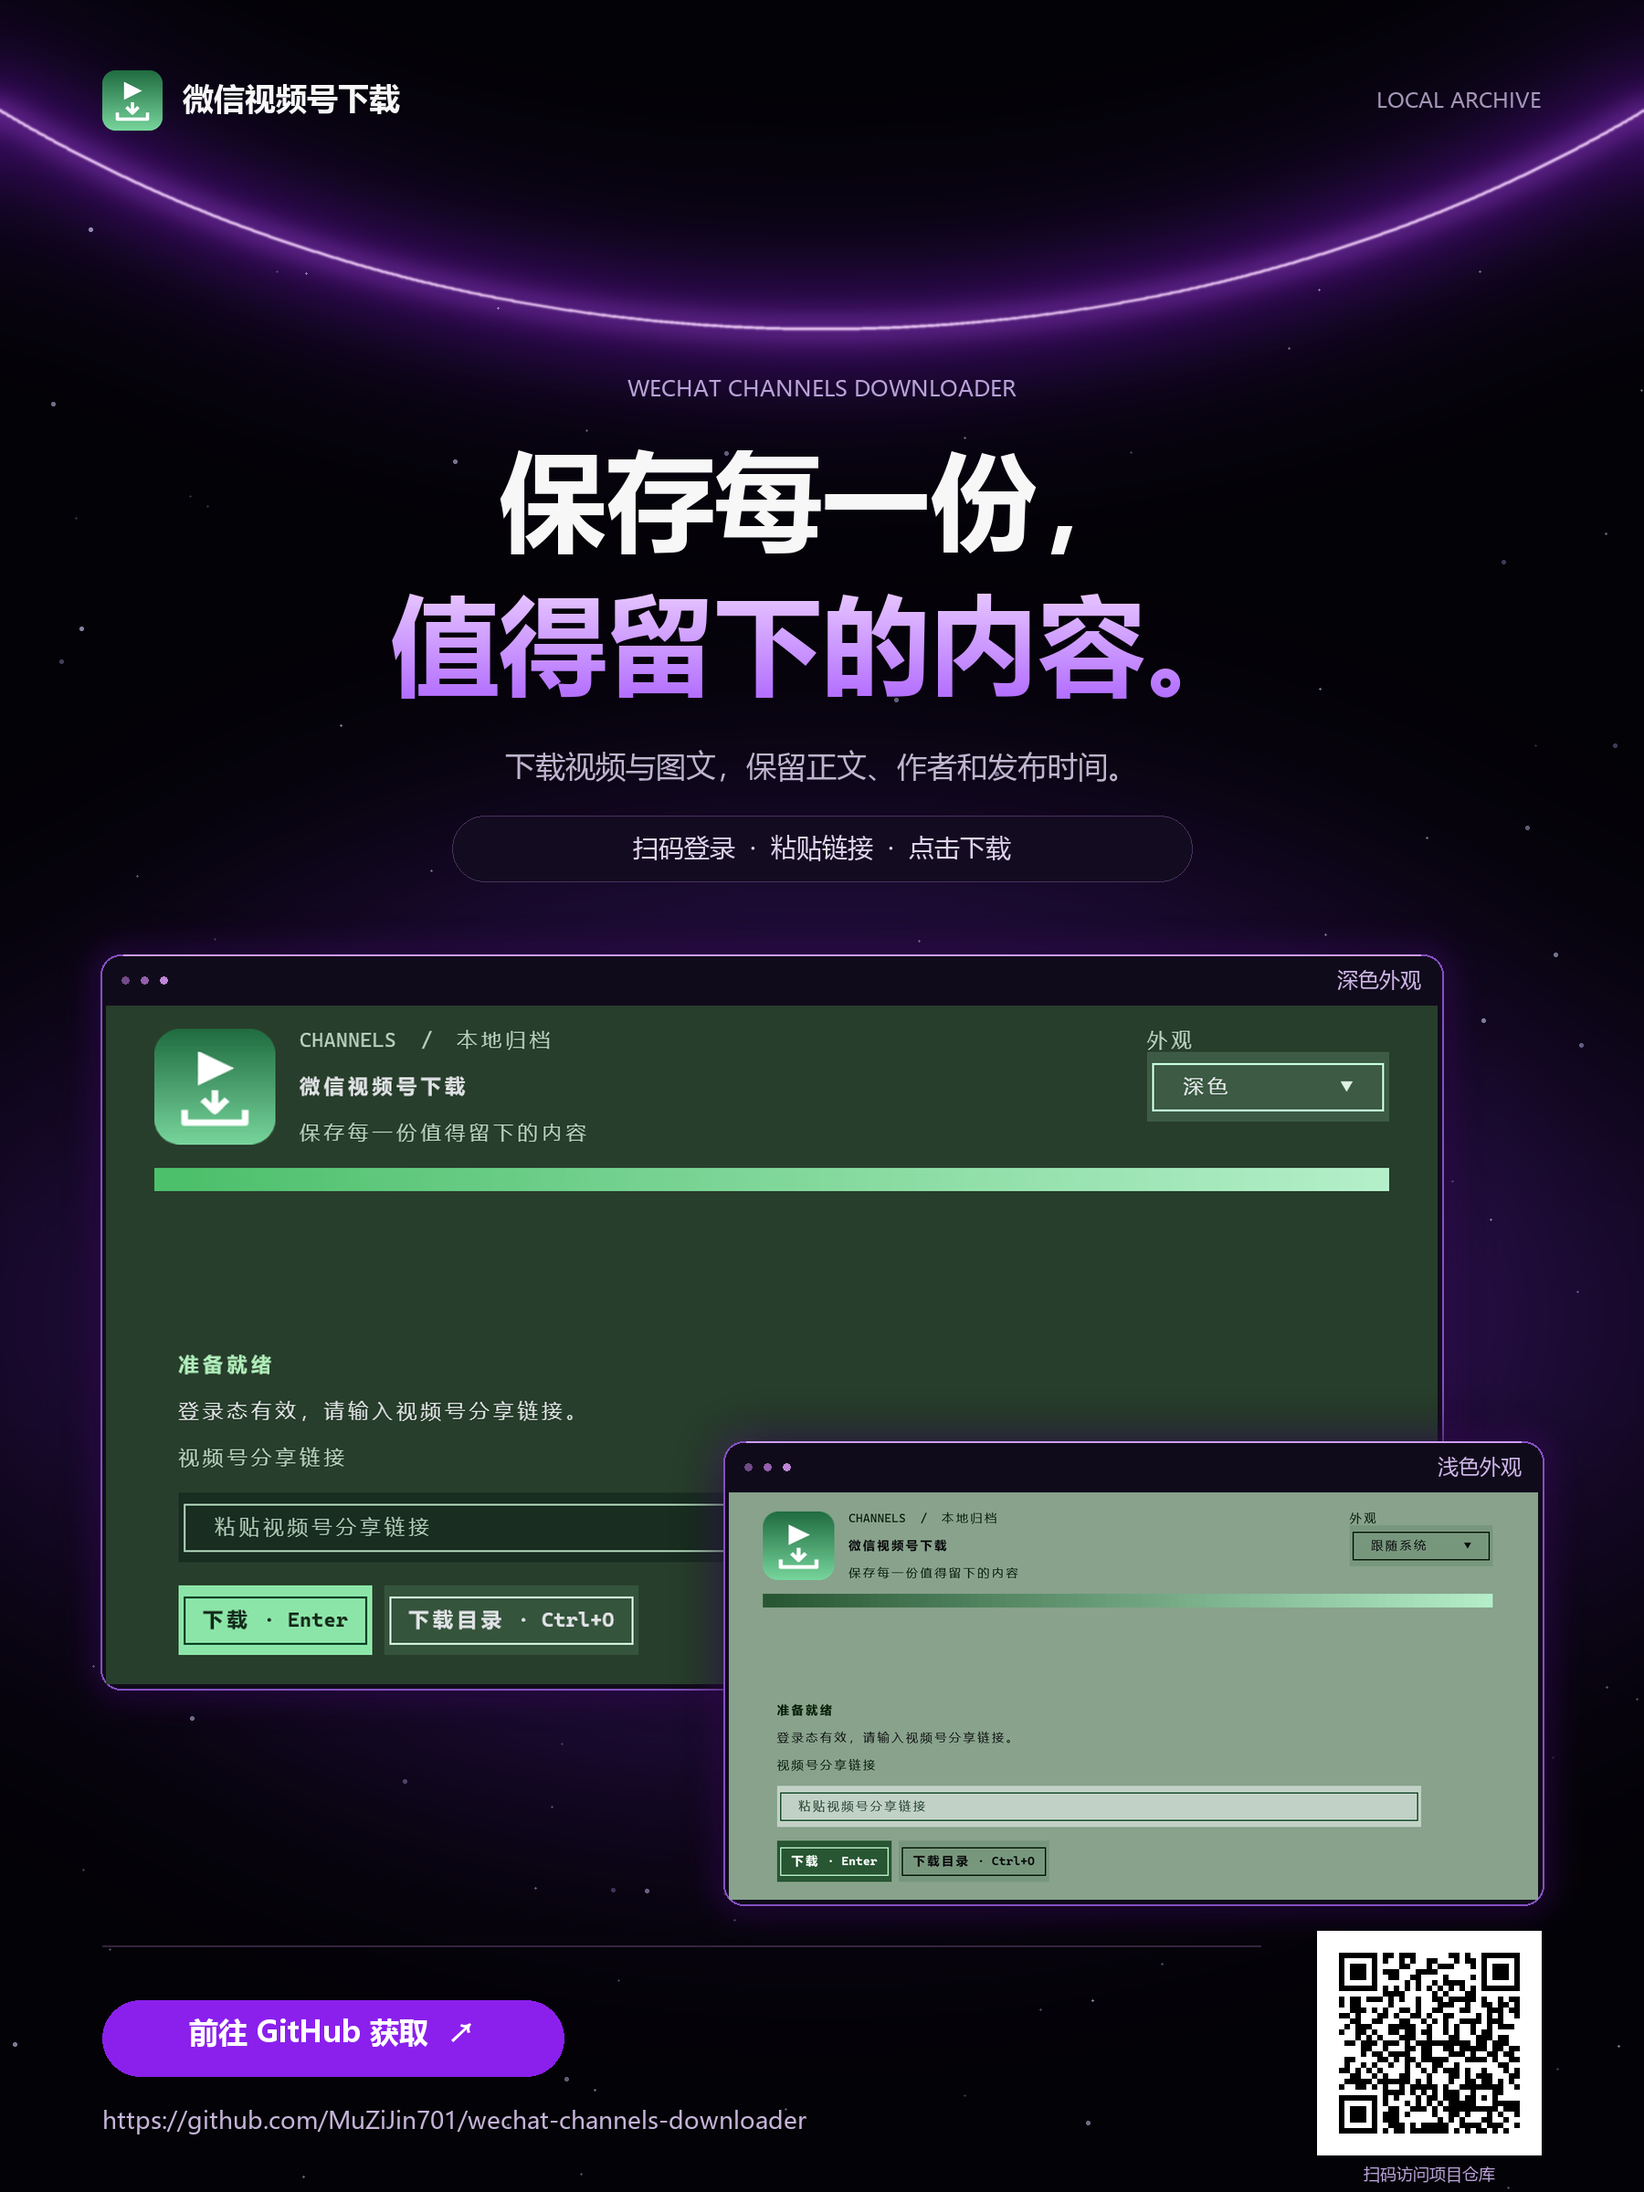
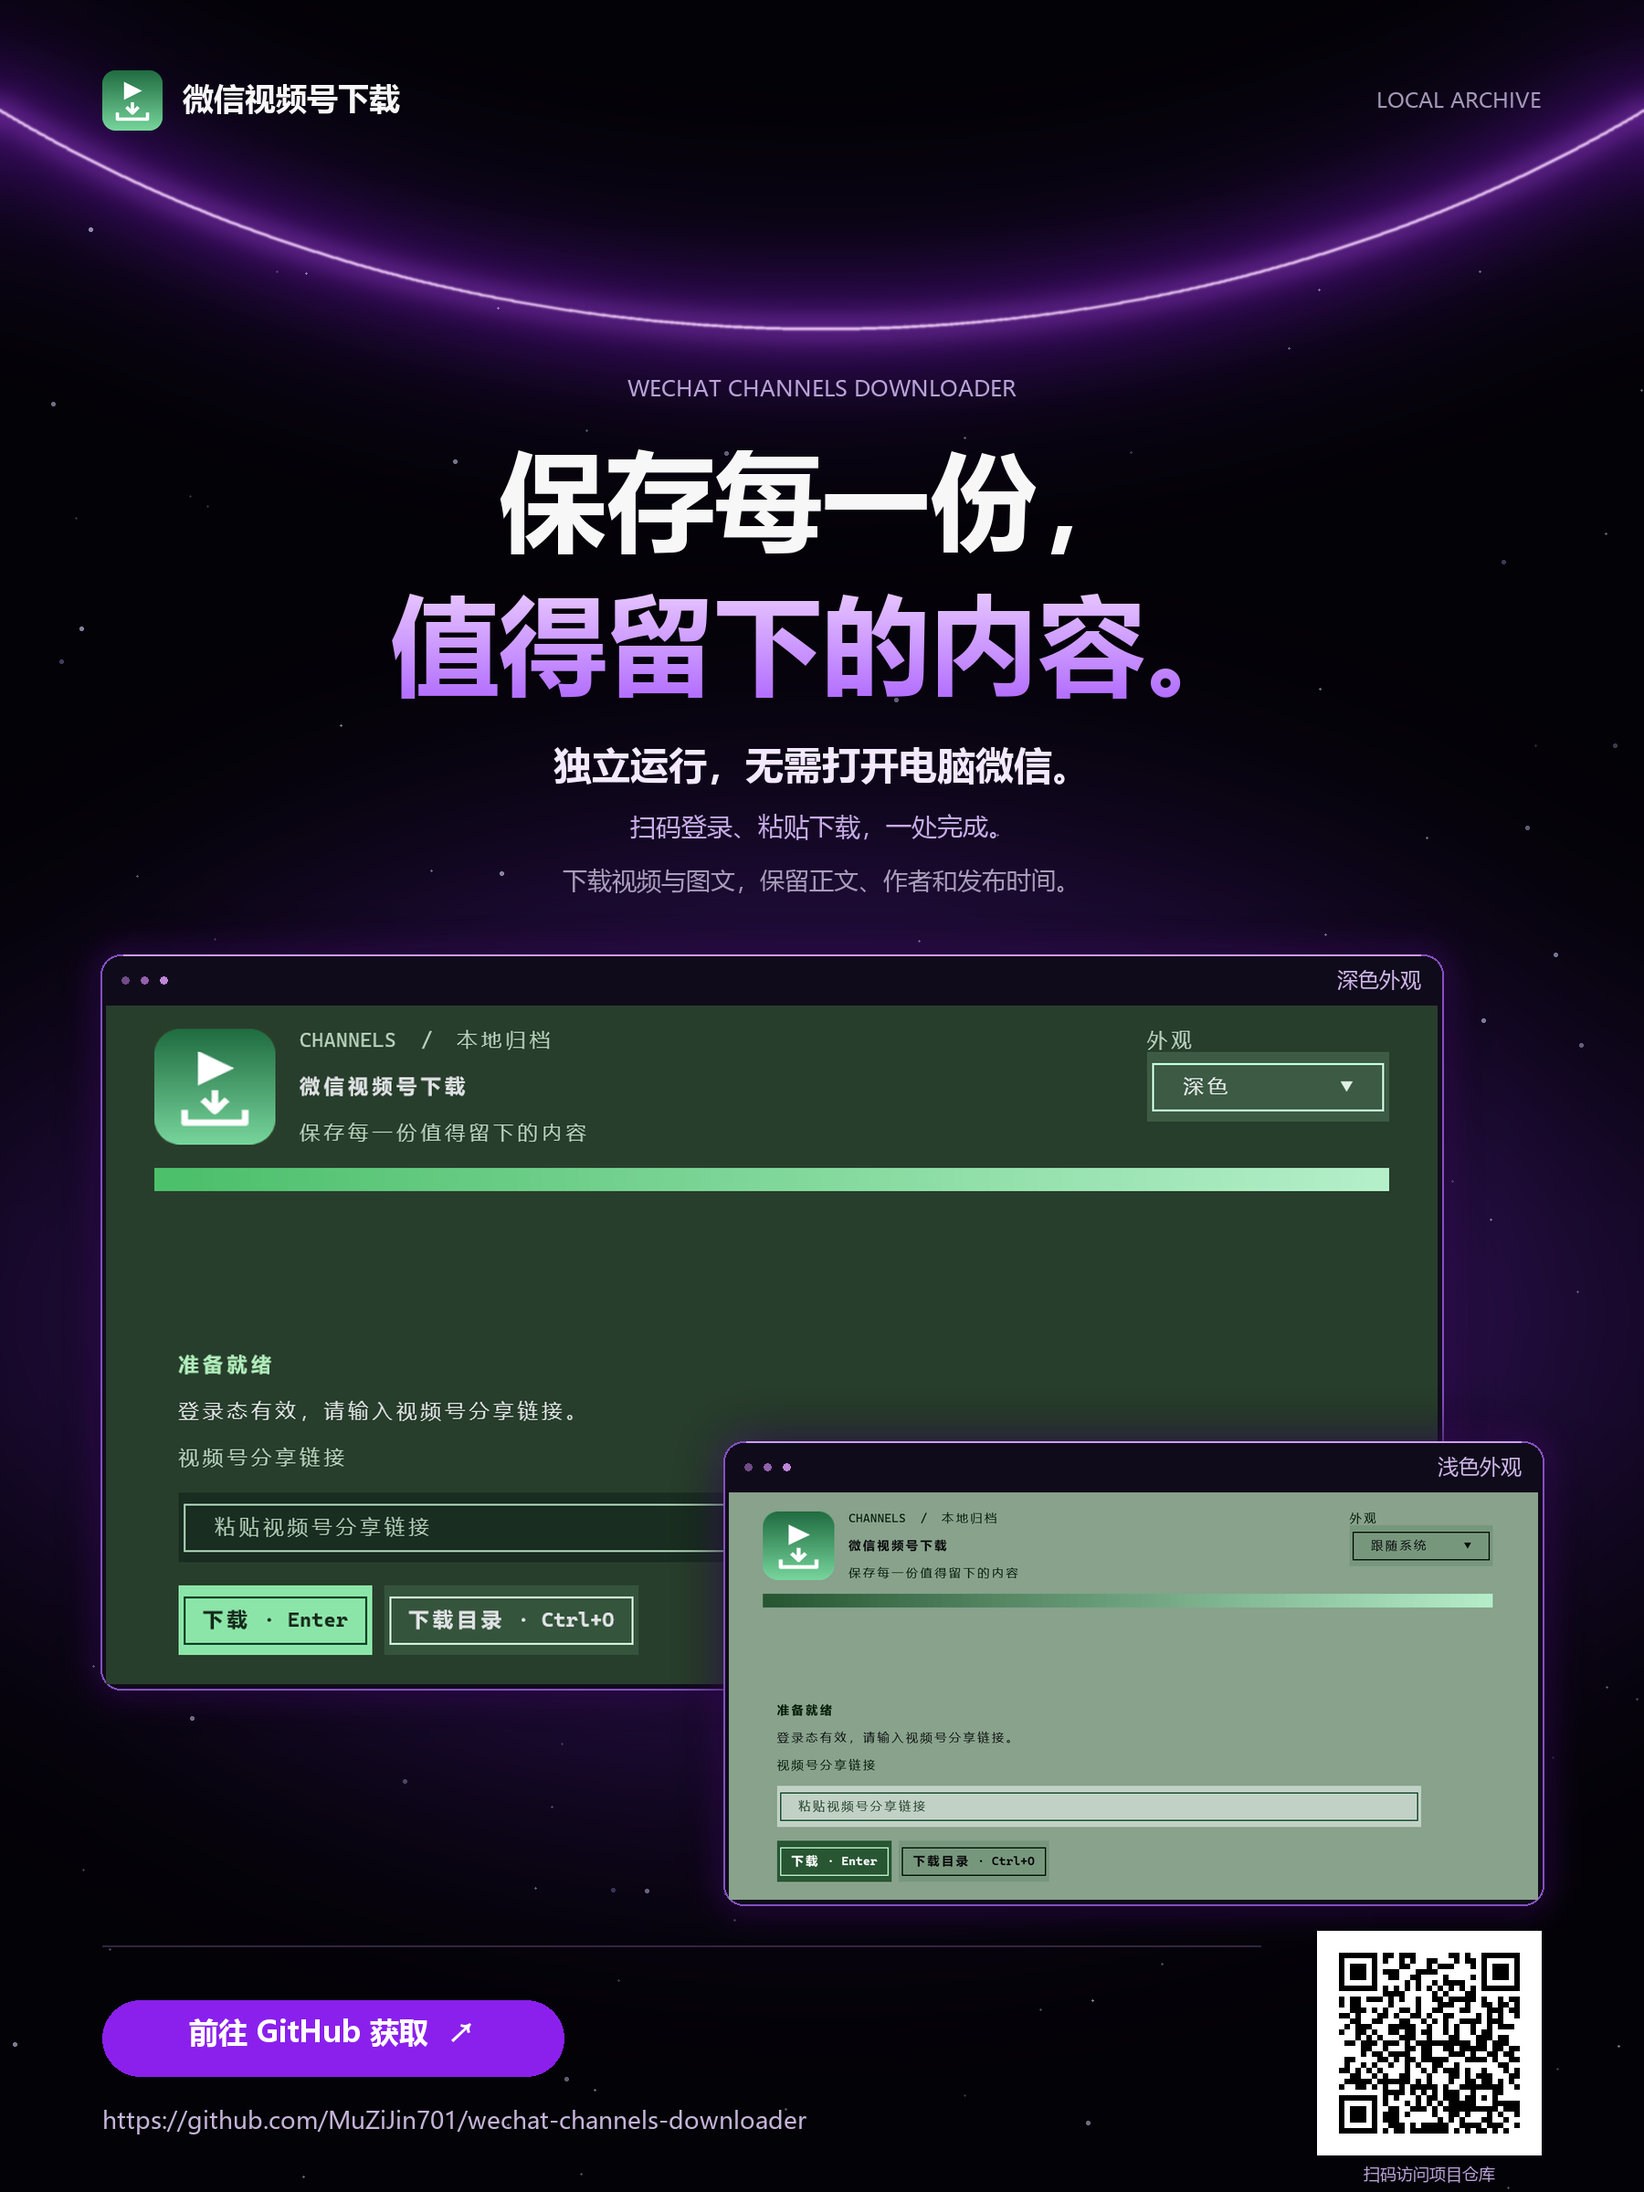
Update poster copy to emphasize independent use

Changed region(s): [[0.3111, 0.3438, 0.6844, 0.4062]]

diff --git a/tools/draw_poster.py b/tools/draw_poster.py
@@ -133,10 +133,9 @@ def main() -> None:
         t = (y - 650) / 150
         ink_draw.line((0, y, SIZE[0], y), fill=(round(229 - 66 * t), round(195 - 112 * t), 255))
     image.paste(ink, (0, 0), mask)
-    centered(821, "下载视频与图文，保留正文、作者和发布时间。", 33, "#bfb5ce")
-
-    draw.rounded_rectangle((495, 893, 1305, 965), radius=36, fill="#130c20", outline="#49315e", width=1)
-    centered(914, "扫码登录  ·  粘贴链接  ·  点击下载", 28, "#e0d4ed")
+    centered(818, "独立运行，无需打开电脑微信。", 42, "#f3e9ff", True)
+    centered(891, "扫码登录、粘贴下载，一处完成。", 28, "#c8ace8")
+    centered(951, "下载视频与图文，保留正文、作者和发布时间。", 27, "#a99dbb")
 
     panel(image, "深色模式使用截图.png", (6, 62, 1326, 735),
           110, 1045, 1470, "深色外观", font(23))

diff --git a/docs/requirements.md b/docs/requirements.md
@@ -456,3 +456,62 @@ PyInstaller 官方明确指出 `hide-console` 仍可能闪窗，在 Windows Term
 ### 整体确认与制作授权
 
 用户明确回复「确认，开始制作」，确认上述整体方案，授权制作海报、Python 绘制脚本和相关文档。二维码指向项目仓库，并标注「扫码访问项目仓库」以区分应用登录二维码；交付和验证结果见[海报验证记录](validation.md#宣传海报2026-10-23仅-windows-本机)。本轮不提交、不推送、不发布到社交平台。
+
+### 低门槛下载卖点强化
+
+用户希望根据「扫码后粘贴链接即可下载」这一体验增加宣传内容，授权调整海报文案。保留既有主标题、皇家紫构图、两张截图与项目入口，将原操作提示提升为醒目的「微信扫码登录，粘贴链接，一键下载。」，补充「无需抓包 · 无需安装证书 · 无需手动提取 Cookie」，原功能说明保留在下方。
+
+上述表述指用户无需自行处理这些技术步骤，不代表免登录、无需联网或粘贴后自动下载；一键下载指就绪状态下点击下载按钮或按 Enter。元宝登录及必要的手机确认仍按程序提示进行。
+
+2026-10-23 检索一手项目说明：[wechat-video-subtitle](https://github.com/jianminggan/wechat-video-subtitle)也支持登录元宝后通过链接下载，定位为需准备运行环境的 Agent Skill；[wx-video-channel-download](https://github.com/oliver-zch/wx-video-channel-download)的说明仍要求用户在开发者工具中手动获取 Cookie。两者说明存在不同操作流程，不能据有限检索推断市场稀有程度；海报采用本项目可核实的步骤优势，不加入「唯一」「非常稀有」等比较性断言。未运行同类项目或核验其实际成功率。
+
+### 与 wx_channels_download 对比后的宣传需求重新澄清（2026-10-23，已确认并授权实现）
+
+用户重新明确调用 `grill-with-docs`，指定对比 [ltaoo/wx_channels_download](https://github.com/ltaoo/wx_channels_download)，希望核实可用于宣传的真实优势，并明确要求海报不出现「手动提取 Cookie」这类技术性问题。此要求取代上一轮采用技术步骤作为海报文案的选择；对比调研用于提炼普通用户能理解的收益，不推断市场稀有程度。
+
+首轮 Q1 已确认：仅展示本项目的用户收益，海报不出现对方项目名称或对比表。具体优势、文案主次与最终共同理解尚待完成；本轮先更新澄清记录，尚未改绘海报。
+
+#### 对比核对与宣传边界
+
+核对对方默认分支版本 [`124f044235bc706fe796c043a14ff442a150ae5d`](https://github.com/ltaoo/wx_channels_download/commit/124f044235bc706fe796c043a14ff442a150ae5d) 的一手文档及源码；本项目核对当前 README、`downloader/service.py` 与 `downloader/archive.py`。本轮未运行对方软件、安装依赖或进行实际下载性能对比。
+
+| 维度 | 核对结果 | 可用于宣传的用户收益 |
+| --- | --- | --- |
+| 常规使用流程 | 对方 [README](https://github.com/ltaoo/wx_channels_download/blob/124f044235bc706fe796c043a14ff442a150ae5d/README.md#L7-L35) 介绍在电脑微信播放后点下载；本项目主流程集中为扫码、粘贴分享链接、点击下载。但对方当前[源码也接受分享链接](https://github.com/ltaoo/wx_channels_download/blob/124f044235bc706fe796c043a14ff442a150ae5d/pkg/scraper/wxchannels/client.go#L75-L121)，不能说它不支持链接下载或所有模式都必须逐条播放。 | 强调本项目集中、直接的使用流程；扫码及链接下载不宣称独有。 |
+| 下载后的独立浏览 | 本项目每条动态建立独立目录，生成使用本地媒体的 `index.html`，一起展示正文、作者和时间。对方当前[下载出口](https://github.com/ltaoo/wx_channels_download/blob/124f044235bc706fe796c043a14ff442a150ae5d/internal/adapter/wxchannels/model.go#L819-L987) 创建媒体资源，内容信息进入内容库并通过[内容 API](https://github.com/ltaoo/wx_channels_download/blob/124f044235bc706fe796c043a14ff442a150ae5d/internal/services/content.go#L266-L285)供内置网页管理；沿该出口与后处理未发现视频号独立汇总浏览页的生成。 | 「下载后自动整理，离线也能翻看」是目前最具体、依据较强的差异；只陈述本项目产物，不绝对宣称对方无法实现。 |
+| 视频、图文与相关信息 | 对方[模型与下载逻辑](https://github.com/ltaoo/wx_channels_download/blob/124f044235bc706fe796c043a14ff442a150ae5d/internal/adapter/wxchannels/model.go#L285-L357)也处理图文、视频、描述、作者和时间。 | 可用「视频、图文与正文，一起留在本地」说明自身价值，但不是独有能力。 |
+| 支持范围与功能多寡 | 对方[指南](https://github.com/ltaoo/wx_channels_download/blob/124f044235bc706fe796c043a14ff442a150ae5d/docs/guide/start.md#L22-L35)已包含 Windows、macOS 和 Linux；还提供[作者批量下载](https://github.com/ltaoo/wx_channels_download/blob/124f044235bc706fe796c043a14ff442a150ae5d/docs/feature/wxchannels/batch.md)，本项目当前只处理单条分享链接。 | 不以跨平台为独有优势，不宣传功能全面领先、批量能力或未经测试的速度、画质、成功率优势。 |
+
+普通用户主流程的启动准备差异可以作为内部研究依据；海报不讨论证书、代理、Cookie 或接口等实现细节。对方也有不同启动模式和扫码界面，不能把 README 的主流程推广为其全部能力。
+
+#### 上一轮候选文案（用户未接受）
+
+保留既有主标题、皇家紫视觉、截图与 GitHub 入口，仅调整辅助文案和必要的文字排版。候选三行依次为：
+
+1. 「扫码登录，粘贴链接，轻松保存。」
+2. 「视频、图文与正文，一起留在本地。」
+3. 「下载后自动整理，离线也能翻看。」
+
+以上方案未获确认，用户随后认为「下载后可以离线翻看」不能构成有价值的宣传差异，按下一节修订，不据此改绘。独立浏览页仍是实际功能，但不继续将「离线翻看」作为候选海报卖点。
+
+#### 用户修订：突出无需打开电脑微信（已确认）
+
+用户明确指出，本项目独立运行，不需要同时打开电脑微信；对方常规使用则依赖电脑微信视频号中的操作。宣传重点调整为「无需打开电脑微信」，取代上一轮的「离线翻看」；海报继续不用 Cookie、代理、证书等技术措辞。
+
+本项目 `Session.open()` 启动自带 Chromium 访问元宝，登录后直接处理分享链接，未启动或读取电脑微信；需要手机微信扫码确认，因此对外须写「电脑微信」，不能笼统写「不需要微信」。对方 README 介绍的代理及电脑微信播放下载流程可作为比较背景，但其当前代码也提供元宝登录态下的链接解析路径，不把常规流程推广为所有模式的必需条件。
+
+用户进一步说明，体验价值在于后台浏览器处理元宝登录，将二维码直接显示在工具界面，自动保存有效登录信息；用户感受到的是在工具中扫码登录后继续粘贴下载，无需另行处理网页登录。本项目 `Session.login()` 的二维码回调及界面 `show_qr()` 与该描述一致。实际身份认证对象仍为腾讯元宝，本项目没有另建独立账号体系。
+
+用户提出该实现是同类首创。有限核查中，[QinGeneral/wx-downloader](https://github.com/QinGeneral/wx-downloader/blob/0892c10d56abd41d4df2a162916c7f70d500d6c6/src/wx_channels_cli/auth.py#L48-L49)采用有头浏览器让用户扫码后自动保存登录态；[WechatVideoDL 的说明](https://github.com/topgptus/WechatVideoDL/blob/25dd8d95dad1c255ed08cc7d1e2a360ba0f56824/README.md#L350-L392)要求先在本机浏览器登录并导出登录信息，无头浏览器用于后续解析。这些相近方案不足以否定「无头浏览器提取元宝二维码、在工具内展示并保存登录态」这一精确组合的首创主张，但也不足以证明其优先权；尚无定义完备的同类范围及最早公开时间对比，故将「首创」记为未证实，不作为已确认宣传事实。未运行这些项目或开展全网历史优先权调查。
+
+宣传表达进一步聚焦「扫码、粘贴、下载在工具内连贯完成」，不把 Playwright、Chromium、Cookie 等实现术语放上海报。
+
+已确认方案：现有主标题、皇家紫版式、截图与二维码保留，主标题下方三行依次调整为：
+
+1. 核心卖点：「独立运行，无需打开电脑微信。」
+2. 连贯体验：「扫码登录、粘贴下载，一处完成。」
+3. 功能说明：「下载视频与图文，保留正文、作者和发布时间。」
+
+用户明确回复「接受开始实现」，确认此修订并授权更新海报、绘制脚本和相关文档；本节取代上一轮候选文案。本轮不提交、不推送，不发布到社交平台。检查结果见[海报验证记录](validation.md#宣传海报2026-10-23仅-windows-本机)。
+
+本轮没有新增领域概念，不为宣传措辞增加词汇表条目；没有需要记录为 ADR 的架构取舍。

diff --git a/docs/validation.md b/docs/validation.md
@@ -6,6 +6,10 @@
 
 制作[皇家紫宣传海报](images/宣传海报.png)，交付 [Python 绘制脚本](../tools/draw_poster.py)和[生成说明](development.md#宣传海报)。使用已有 Pillow 13.0.0、微软雅黑、本地图标和两张原始截图，不新增项目依赖；生成过程离线，不读取登录态或下载内容。
 
+上一版曾按用户要求强化低门槛卖点，使用「微信扫码登录，粘贴链接，一键下载。」及技术步骤说明；历史依据与边界见[需求记录](requirements.md#低门槛下载卖点强化)。
+
+用户随后重新澄清并确认面向普通用户的文案，当前海报改为「独立运行，无需打开电脑微信。」「扫码登录、粘贴下载，一处完成。」，保留视频图文与正文、作者、发布时间的功能说明，移除技术术语及「离线翻看」候选，不写竞品名称或未证实的首创判断。重新生成后检查文字边界与视觉布局，确认成图仅辅助文案区域变化，截图、背景和二维码像素与改动前一致；生成自检、13 个源文件的类型检查及 Git 差异检查通过。原二维码载荷记录继续适用，未重复访问在线识别服务；本轮未改应用，未重跑完整应用测试。确认及对比边界见[需求记录](requirements.md#与-wx_channels_download-对比后的宣传需求重新澄清2026-10-23已确认并授权实现)。
+
 | 检查 | 状态 | 实际范围 |
 | --- | --- | --- |
 | 生成与自检 | 通过 | Windows、Python 3.11、锁定依赖；1800×2400 RGB PNG，检查主要文字边界、素材裁剪范围、二维码四模块留白及最终像素保真 |
